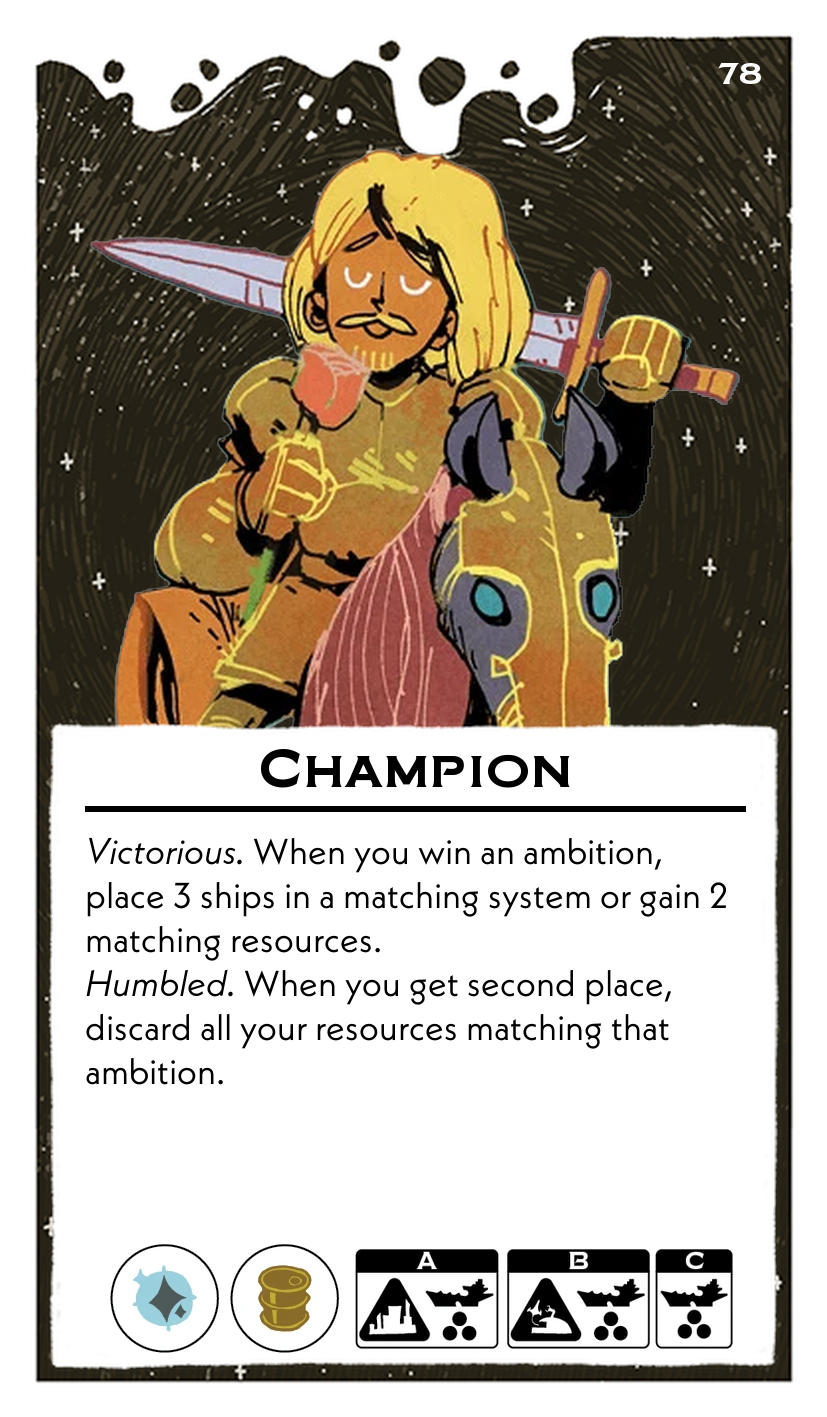
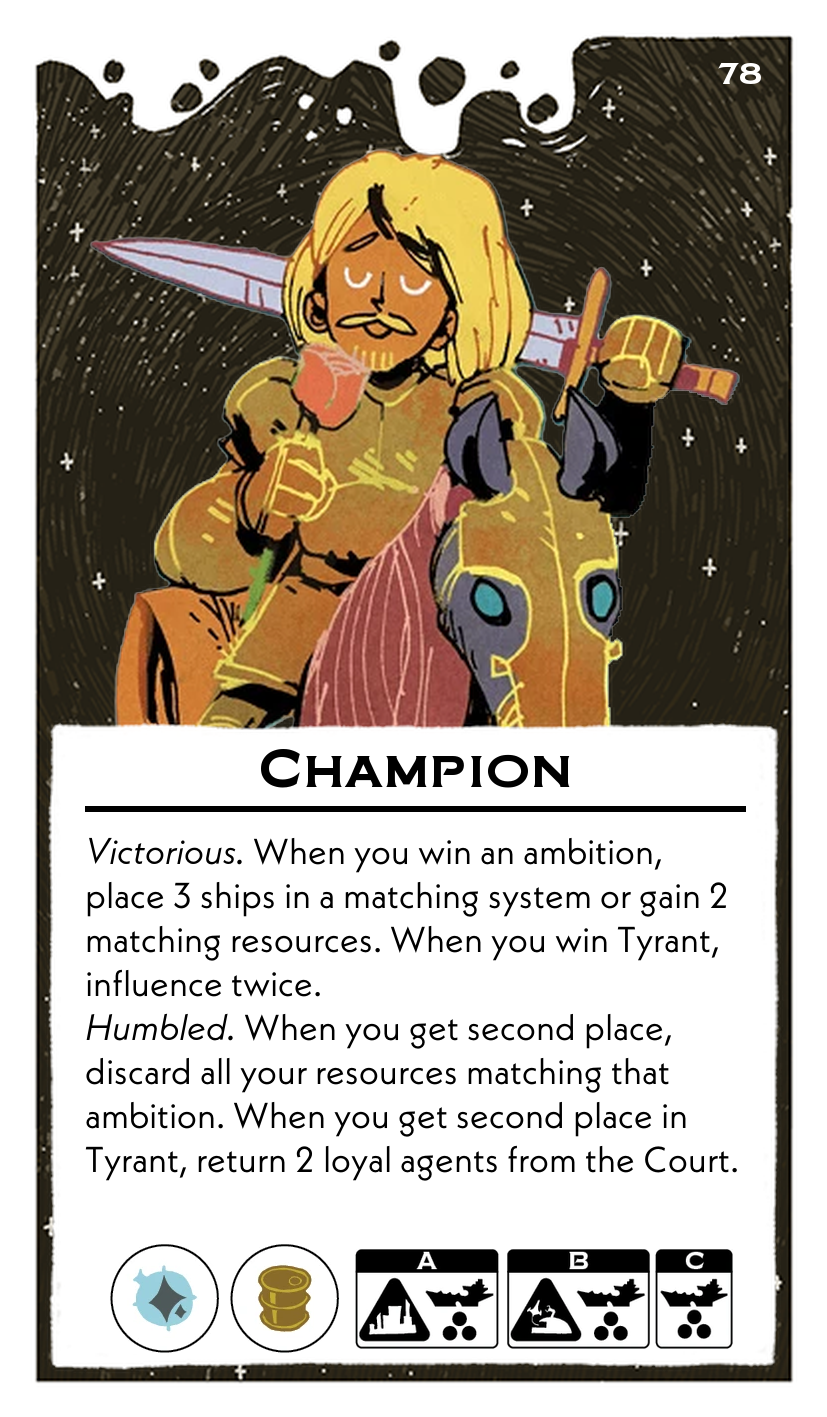
champion

Changed region(s): [[0.0907, 0.6521, 0.8767, 0.8384]]

diff --git a/scripts/leadersFormatted.py b/scripts/leadersFormatted.py
@@ -1182,8 +1182,8 @@ leaders = [
     {
         "name": "Champion",
         "abilities": (
-            "*Victorious.* When you win an ambition, place 3 ships in a matching system or gain 2 matching resources.\n"
-            "*Humbled.* When you get second place, discard all your resources matching that ambition."
+            "*Victorious.* When you win an ambition, place 3 ships in a matching system or gain 2 matching resources. When you win Tyrant, influence twice.\n"
+            "*Humbled.* When you get second place, discard all your resources matching that ambition. When you get second place in Tyrant, return 2 loyal agents from the Court."
         ),
         "resources": ["Relic", "Fuel"],
         "setup": {
